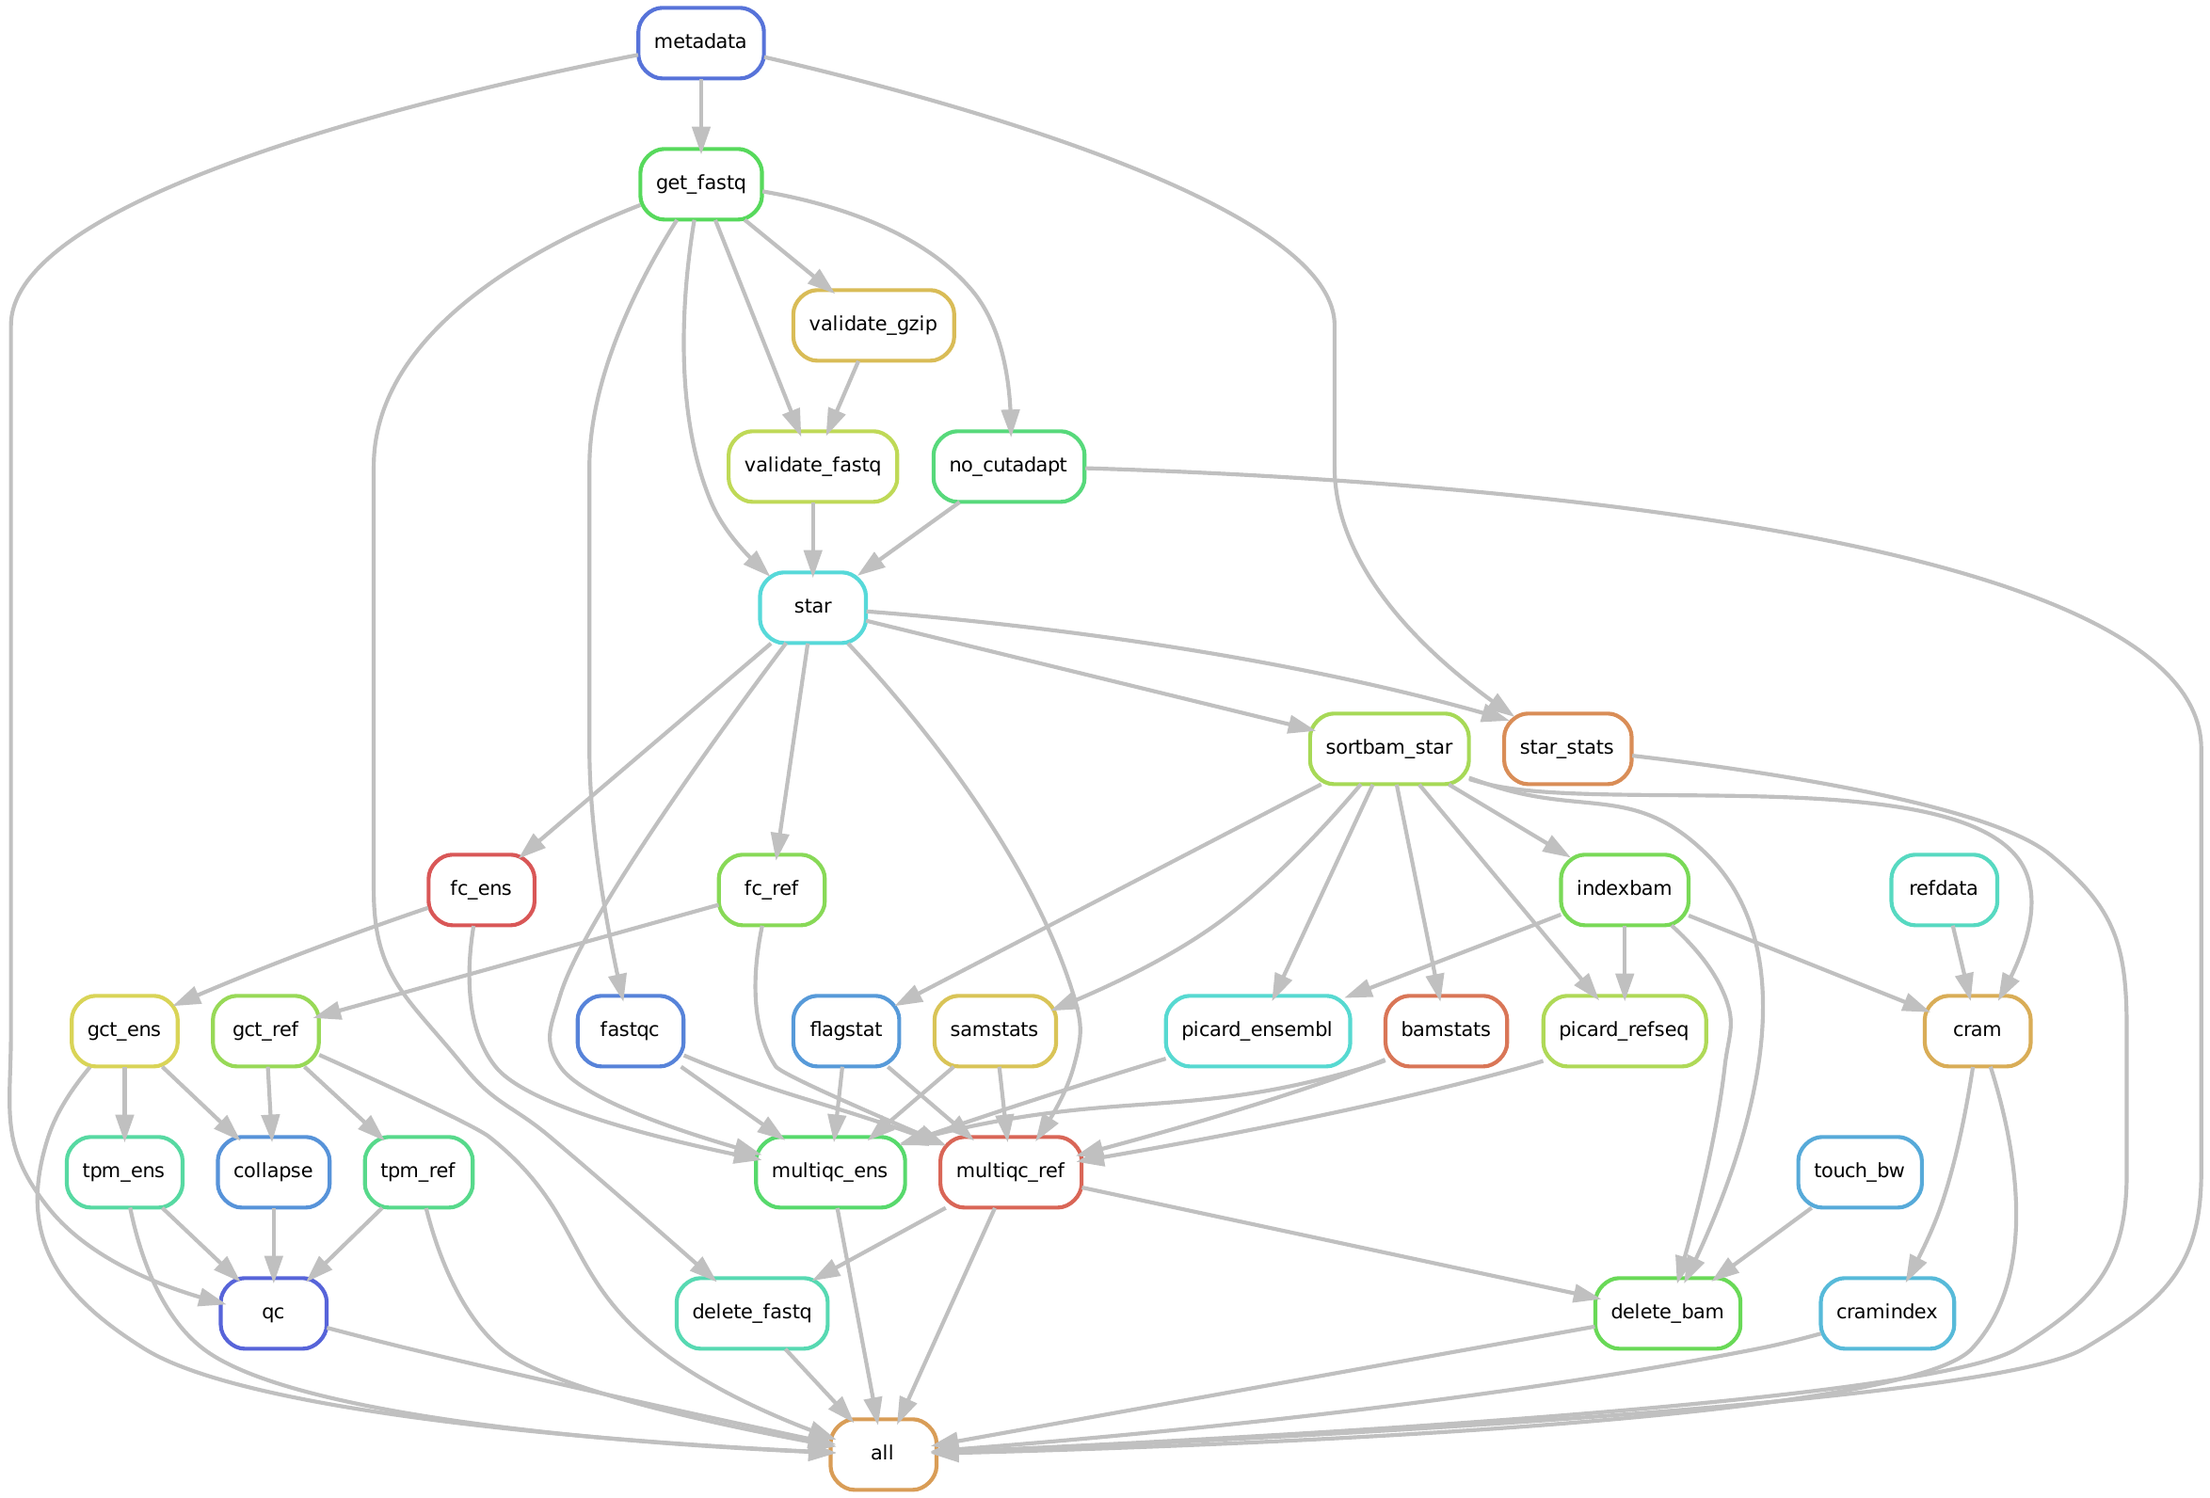
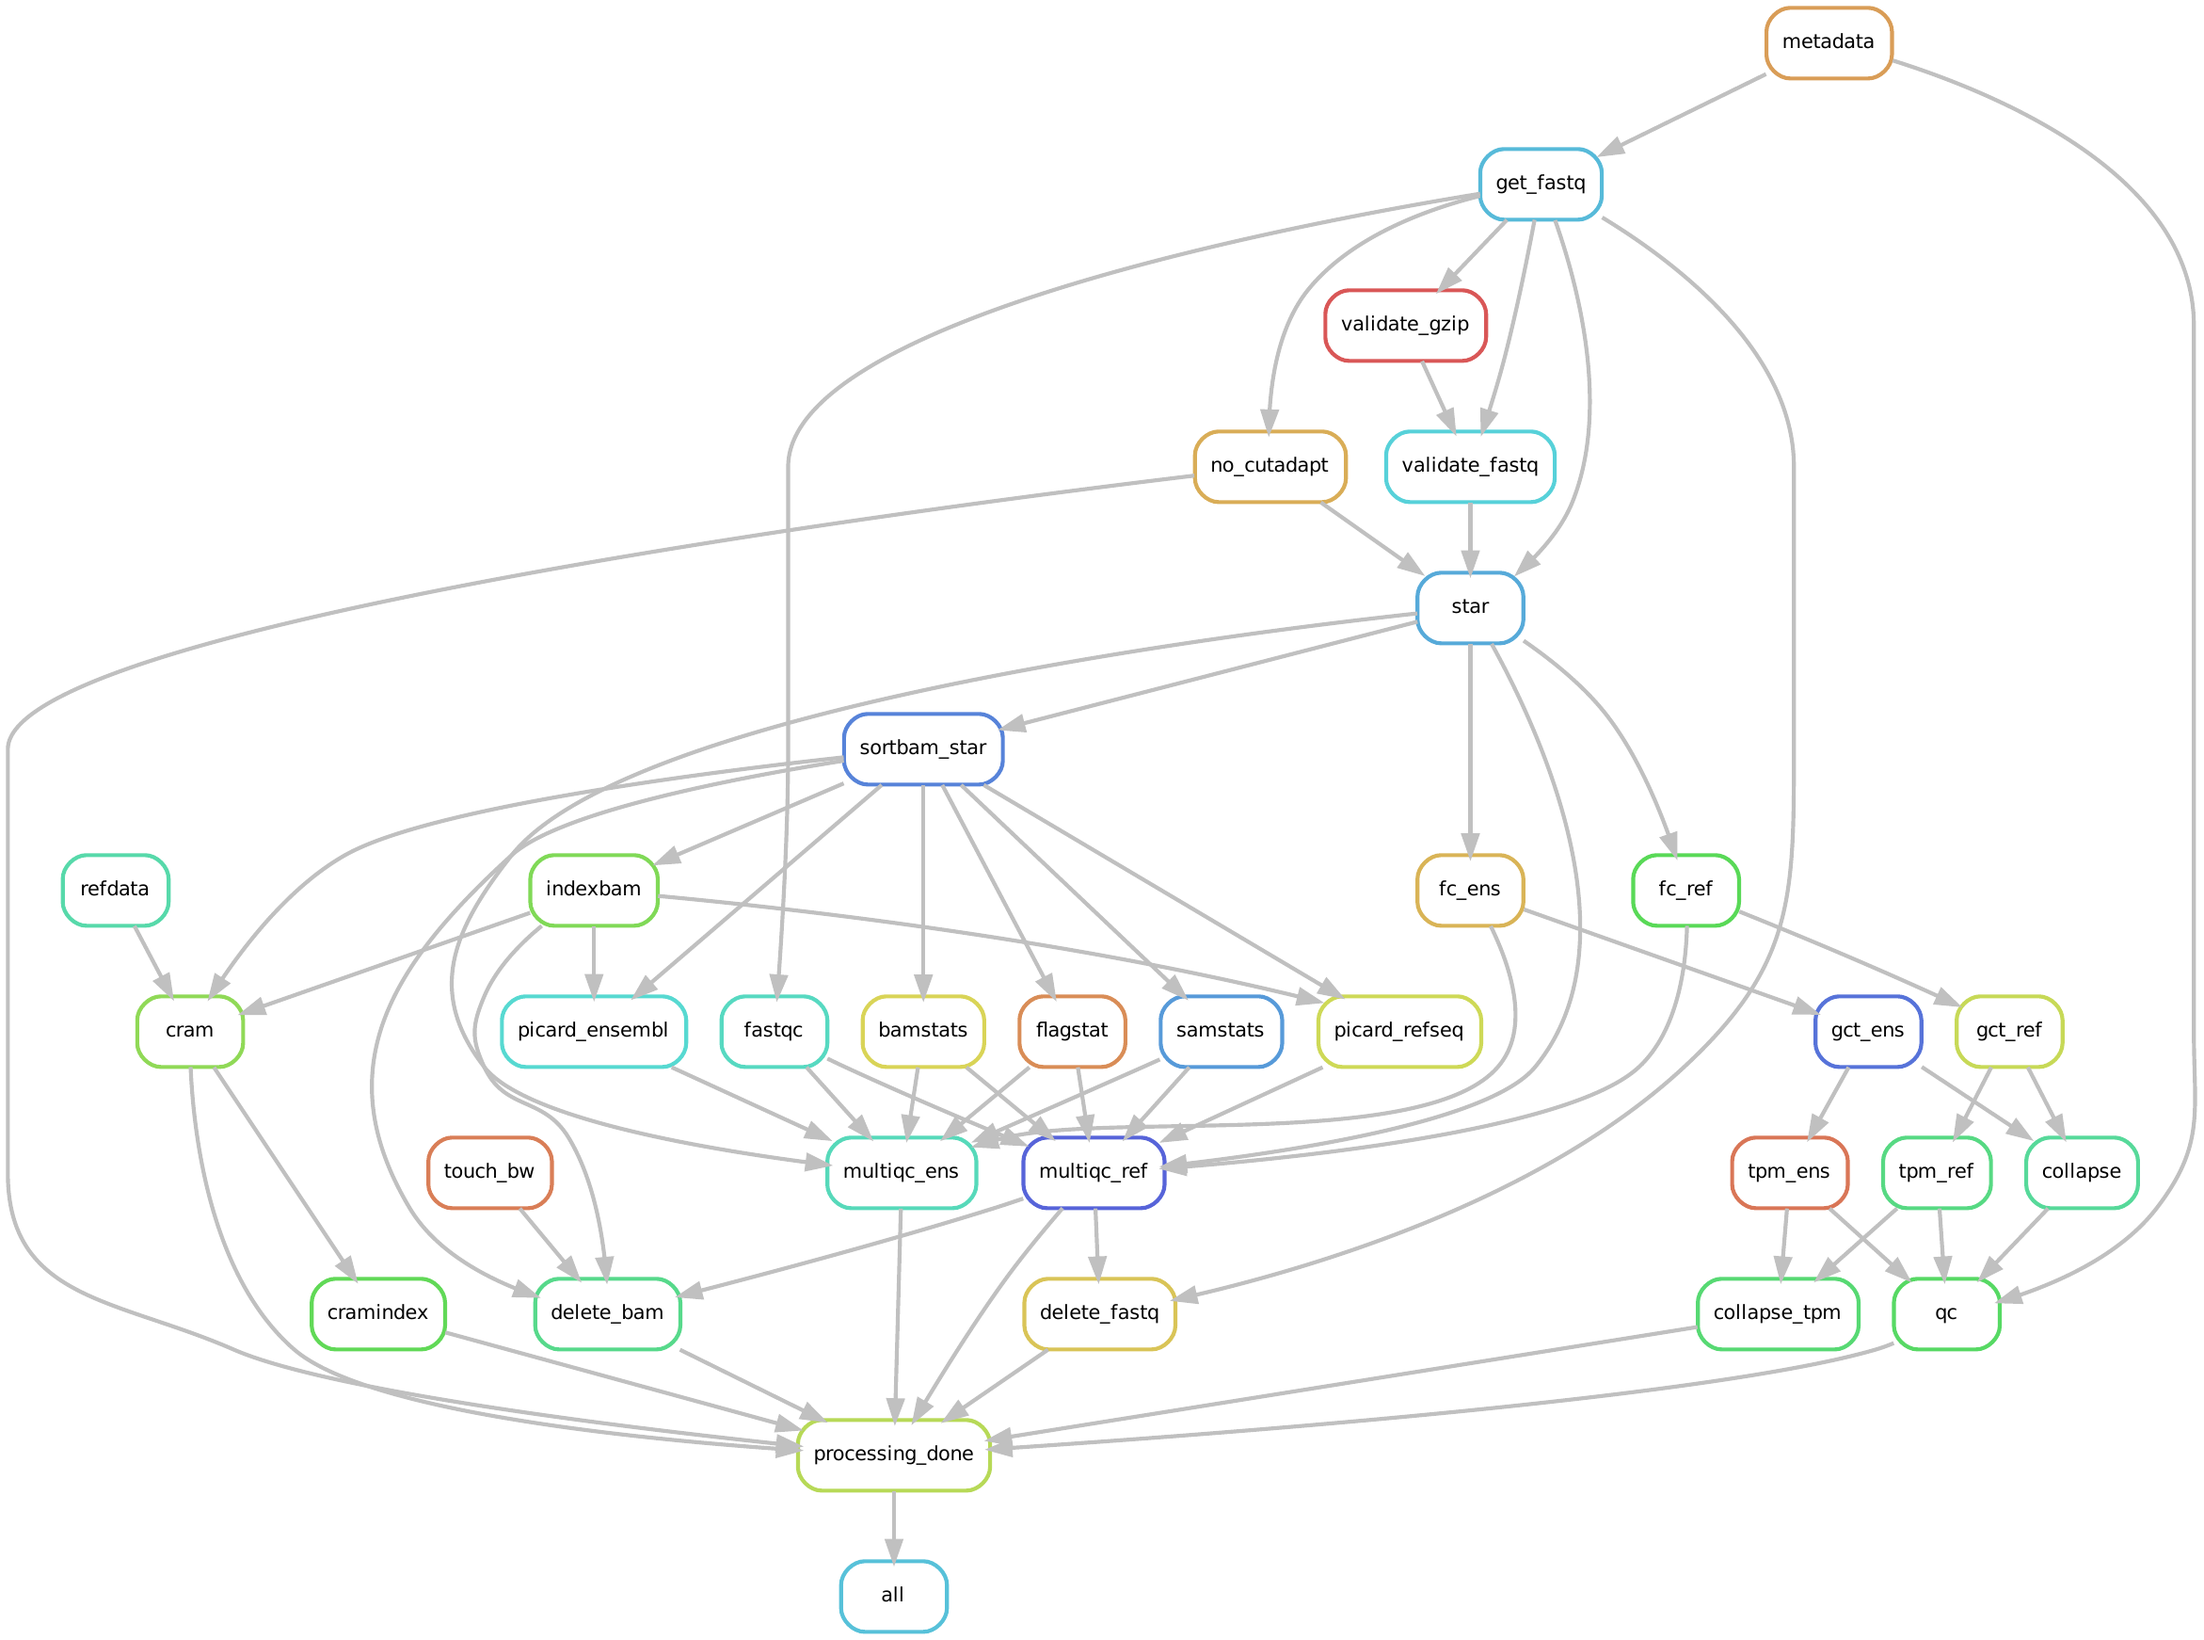
add doc

diff --git a/run.py b/run.py
@@ -46,7 +46,7 @@ def create_run_config(args):
 
     # update config dictionary
     if args.outdir:
-        CONFIG['results'] = args.outdir
+        CONFIG['outdir'] = args.outdir
 
     if args.genome_dir:
         CONFIG['genome_dir'] = args.genome_dir
@@ -94,7 +94,10 @@ def create_run_config(args):
         
     if args.singularity_prefix:
         CONFIG['singularity_prefix'] = args.singularity_prefix
-        
+
+    if args.metadata_file:
+        CONFIG['metadata-file'] = args.metadata_file
+
     # check output config file
     configfile = os.path.join(args.outdir, CONFIGFILE)
 #    if os.path.isfile(configfile):
@@ -195,6 +198,9 @@ if __name__ == '__main__':
                         help='Path to input yaml config file for Snakemake. All parameters of the config file are \
                         overwritten if they are specified by optional arguments to this wrapper script', 
                         required=False, default='config/config.yaml')
+    parser.add_argument('--metadata-file',
+                        help='Path to input tab-delimited text file containing metadata information.', 
+                        required=False, default='')
     parser.add_argument('--genome-dir',
                         help='Path to the genome root directory. Must contain sub-directory for each species genomes.', 
                         required=False, default='')

diff --git a/workflow/scripts/options.py b/workflow/scripts/options.py
@@ -12,7 +12,7 @@ from snakemake.io import expand
 # For bksnake / bulk rnaseq pipeline
 def get_optional_output_files(sample_ids, config):
 
-    OD = config['results']
+    OD = config['outdir']
     OD_FASTQ = os.path.join(OD, 'fastq')
     OD_BAM = os.path.join(OD, 'bam')
     OD_CRAM = os.path.join(OD, 'cram')
@@ -69,7 +69,7 @@ def get_optional_output_files(sample_ids, config):
 # For vcsnake / variant calling pipeline
 def get_optional_output_files_vc(sample_ids, config):
 
-    OD = config['results']
+    OD = config['outdir']
     OD_FASTQ = os.path.join(OD, 'fastq')
     OD_BAM = os.path.join(OD, 'bam')
     OD_CRAM = os.path.join(OD, 'cram')

diff --git a/README.md b/README.md
@@ -7,6 +7,8 @@ Public version of bksnake - biokit snakemake - bulk RNASeq Snakemake workflow
 
 ### Overview of the analysis workflow
 
+Directed acyclic graph of a representative analysis workflow.
+
 <div
   <figure>
     <img src="./resources/dag.png" alt="DAG of the workflow." style="width:50%">
@@ -16,6 +18,11 @@ Public version of bksnake - biokit snakemake - bulk RNASeq Snakemake workflow
 
 
 ## Installation
+
+This workflow requires the following tools in the system path
+
+1. [Singularity](https://docs.sylabs.io/guides/main/user-guide/)
+2. [Snakemake](https://snakemake.readthedocs.io/en/stable/)
 
 In order to pull Singularity images from GitHub package registry one needs to specify username and GitHub read package token:
 
@@ -28,29 +35,25 @@ export SINGULARITY_DOCKER_PASSWORD=<github read package token>
 
 ## Preparation
 
-### Tools
-
-This workflow requires the following two tools in the system path
-
-- singularity
-- snakemake
-- optional: cluster queue configuration
-
 ### Reference genome
 
-Download reference genome annotation files.
+Download reference genome annotation files into a genome "root" and "sub" directories.
+Specify these directories also in the pipeline configuration file (see below).
+TBD
 
 ### Metadata
 
-- create metadata file with sample and fastq file information
-- required columns are
-- #ID: unique sample label
-- GROUP: name of sample condition
-- FASTQ1: name of forward read fastq file (mate 1, R1)
-- FASTQ2: name of reverse read fastq file (mate 2, R2)
-- Raw: path to the folder containing the input fastq files
-- Organism: Human, Rat, Mouse, or Pig
-- use test data
+The main input to the workflow is a tab-delimited text file containing metadata information about all samples. 
+There is a header line and one sample per line, organized by several columns as follows:
+
+- `#ID`: unique sample label
+- `GROUP`: name of sample condition
+- `FASTQ1`: name of forward read fastq file (mate 1, R1)
+- `FASTQ2`: name of reverse read fastq file (mate 2, R2)
+- `Raw`: path to the folder containing the input fastq files
+- `Organism`: Human, Rat, Mouse, or Pig
+
+Note that columns `#ID` and `GROUP` may not contain white-spaces and other special characters.
 
 #### Example
 
@@ -62,10 +65,15 @@ Download reference genome annotation files.
 
 ### Configuration
 
-Edit configuration file `config/config.yaml`
+The workflow requires several parameters to be configured.
+Most of these parameters can be configured by a yaml configuration file.
+A template file is given by `config/config.yaml`.
+Note that many of these parameters can also be specified via the wrapper script `run.py`, see next section.
+Parameters specified on the command line via the wrapper script over write parameters in the configuration file.
 
-- genome directory
-- singularity directory
+It is important to specify the following parameters
+- genome root and sub- directory
+- singularity images directory
 - snakemake path
 - sequencing library (single-end or paired-end, stranded or unstranded)
 
@@ -88,3 +96,9 @@ python run.py --outdir output --species hg38 --cores 12
 
 ```
  
+Here, an example where several pipeline parameters are specified directly via the command line
+```bash
+
+python run.py --snakemake-path="ml purge && ml snakemake && snakemake" --genome-dir /data/genomes --outdir output --species hg38 --jobs 100 
+
+```
